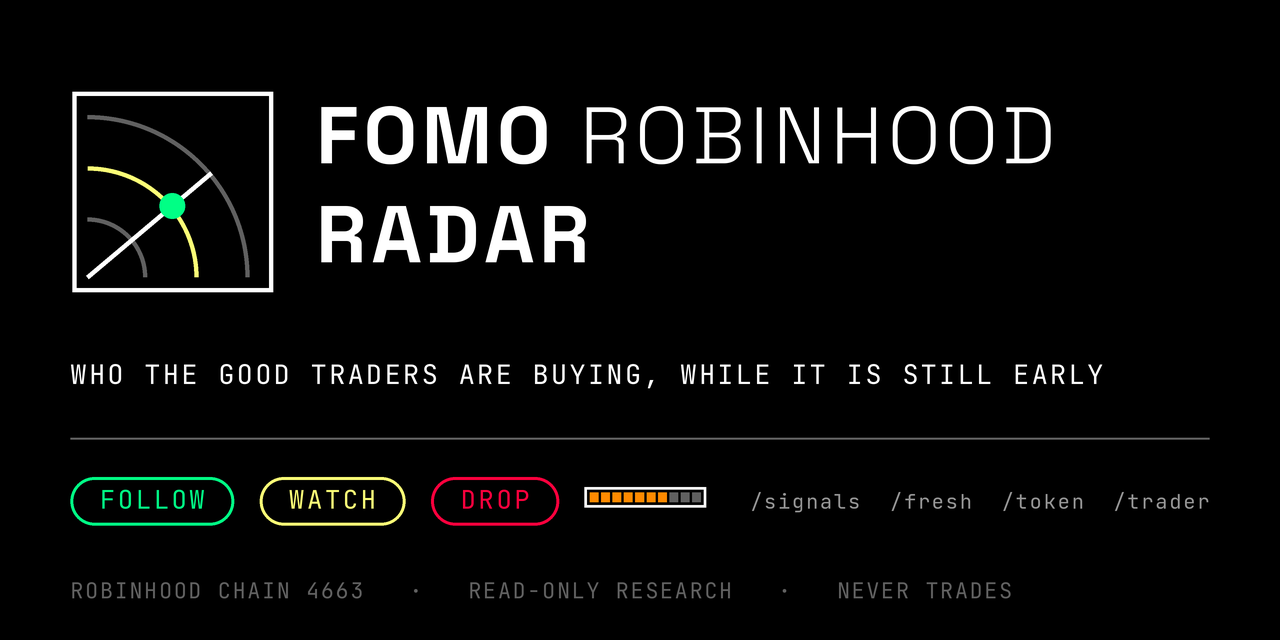
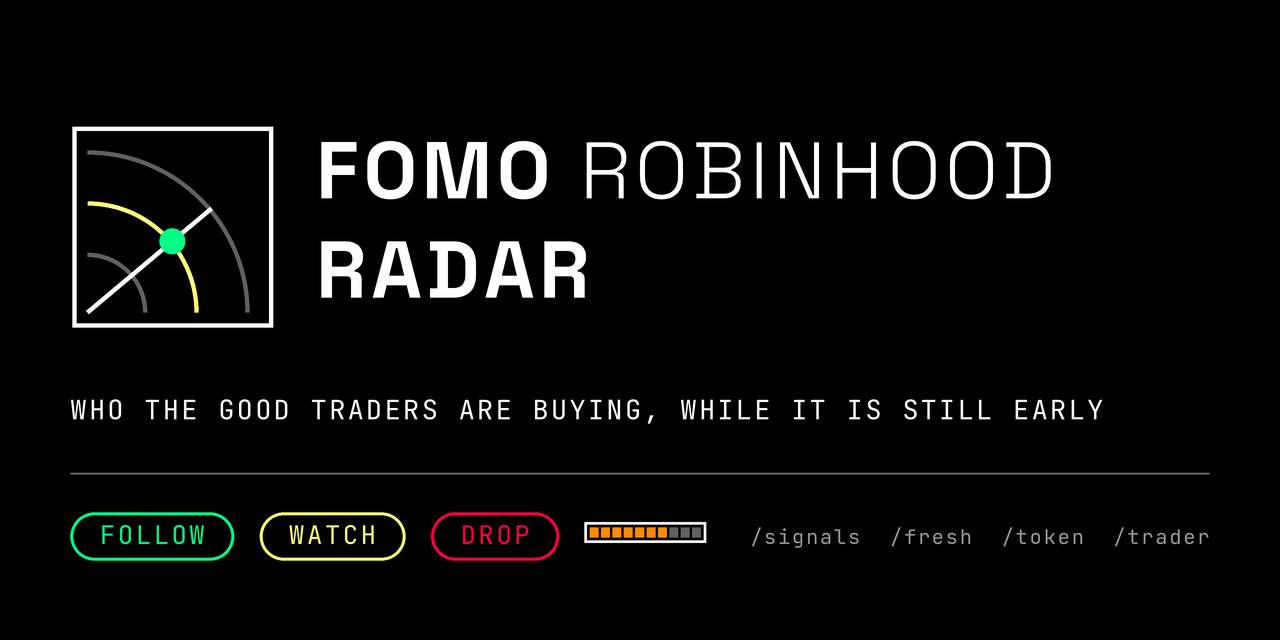
Take the footnote and the server address off the artwork
The link preview still carried "193.233.209.98" from before the domain,
and along the bottom edge "READ-ONLY RESEARCH · NEVER TRADES", which
stopped being true the day an execution engine went on the plan. At
preview size the footnote read as a grey smudge anyway. Both gone from
every wide piece; the block re-centres on the emptier card.

No address on the preview at all: every place that shows one prints the
domain underneath it already.

diff --git a/assets/brand/make_brand.py b/assets/brand/make_brand.py
@@ -231,21 +231,23 @@ def avatar(name: str, side: int = 512, solid: bool = False) -> None:
     save(im, name, side, side)
 
 
-def banner(name: str, w: int, h: int, note: str = "", footnote: bool = True,
+def banner(name: str, w: int, h: int, note: str = "",
            where: pathlib.Path | None = None) -> None:
     """Wide artwork: description picture, /start photo, link preview.
 
     One left edge for everything below the lockup — a grid built from hairlines cannot afford two
     ragged margins — and the readout strip sits on the baseline the rule establishes.
 
-    Without the footnote the whole block drops by `dy` so the remaining content stays optically
-    centred rather than clinging to the top of an empty card.
+    There used to be a footnote along the bottom edge. It went for two reasons: at preview size
+    it read as a grey smudge, and it said "never trades", which stopped being true the day an
+    execution engine went on the plan. With the bottom edge empty the whole block drops by `dy`
+    so the content stays optically centred rather than clinging to the top of the card.
     """
     im, d = canvas(w, h)
     W, H = w * SS, h * SS
     pad = W * 0.055
     inner = W - pad * 2
-    dy = 0.0 if footnote else H * 0.055
+    dy = H * 0.055
 
     m = H * 0.32
     mark(d, pad, H * 0.14 + dy, m)
@@ -281,18 +283,15 @@ def banner(name: str, w: int, h: int, note: str = "", footnote: bool = True,
         fn, tn = mono_fit(note, room, H * 0.040)
         draw_runs(d, W - pad - run_width([(note, fn)], tn), row, [(note, fn)], GRAPHITE, tn)
 
-    if footnote:
-        small = "ROBINHOOD CHAIN 4663   ·   READ-ONLY RESEARCH   ·   NEVER TRADES"
-        fs, ts = mono_fit(small, inner, H * 0.034)
-        draw_runs(d, pad, H * 0.935, [(small, fs)], CARBON, ts)
     save(im, name, w, h, where)
 
 
 if __name__ == "__main__":
     avatar("tg-avatar-512.png")
     avatar("tg-avatar-solid-512.png", solid=True)
-    banner("tg-description-640x360.png", 640, 360, footnote=False)
+    banner("tg-description-640x360.png", 640, 360)
     banner("tg-start-1280x640.png", 1280, 640, note="/signals  /fresh  /token  /trader")
     # The link preview is written straight into the site so there is one file rather than two
-    # copies that can drift; Base.astro points og:image and twitter:image at it.
-    banner("og.png", 1200, 630, note="193.233.209.98", where=HERE.parent.parent / "site" / "public")
+    # copies that can drift; Base.astro points og:image and twitter:image at it. No address on
+    # it: every place that shows a preview prints the domain underneath anyway.
+    banner("og.png", 1200, 630, where=HERE.parent.parent / "site" / "public")
